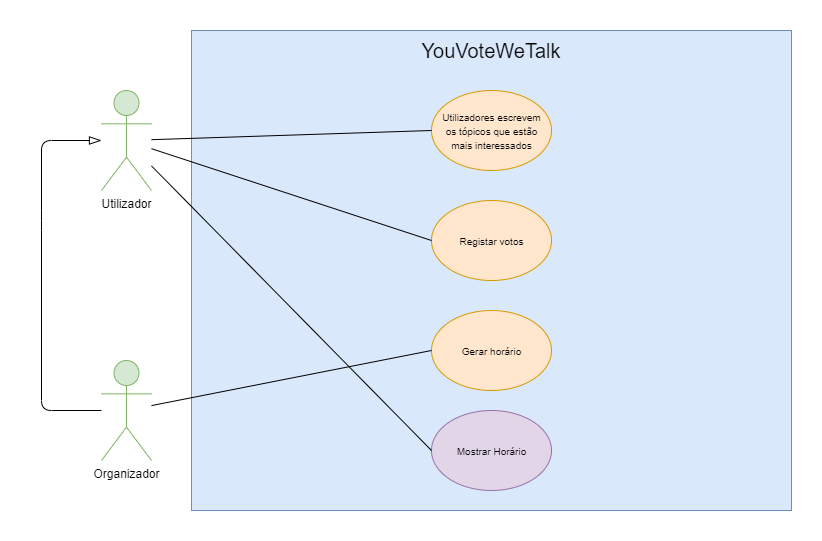
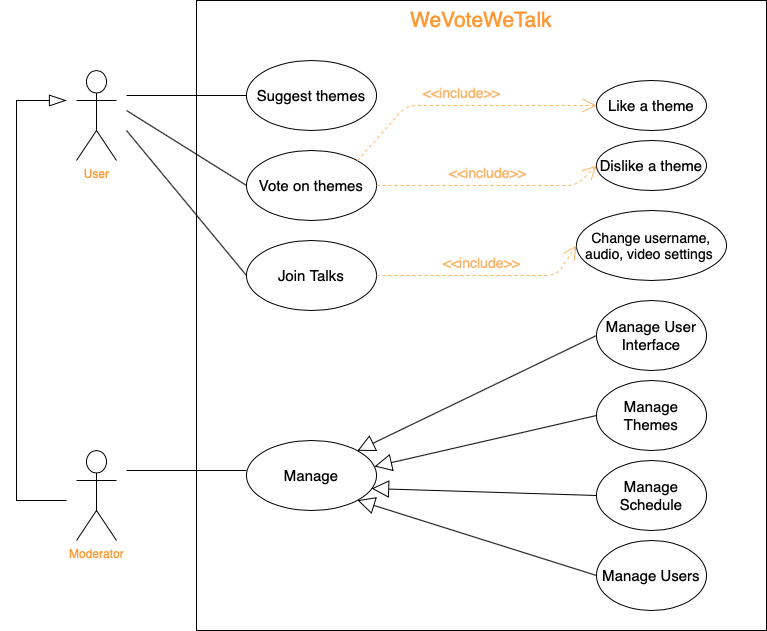
Use Cases Diagram updated according to Dashboard tips

diff --git a/docs/README.md b/docs/README.md
@@ -57,11 +57,7 @@ Start by contextualizing your module, describing the main concepts, terms, roles
 
 ### Use case diagram
 
-![Use-Cases](use-cases-diagram.png)
-
-Create a use-case diagram in UML with all high-level use cases possibly addressed by your module.
-
-Give each use case a concise, results-oriented name. Use cases should reflect the tasks the user needs to be able to accomplish using the system. Include an action verb and a noun. 
+![Use-Cases](use-cases-diagram.png) 
 
 Briefly describe each use case mentioning the following:
 
